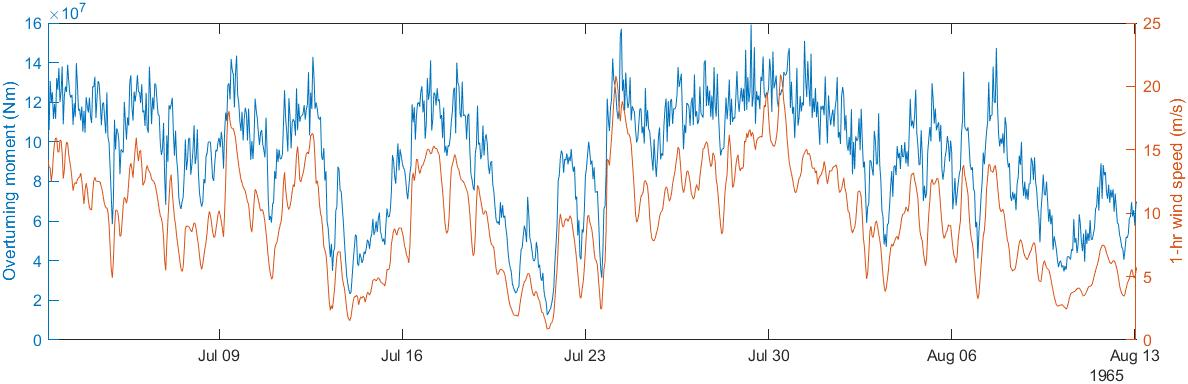
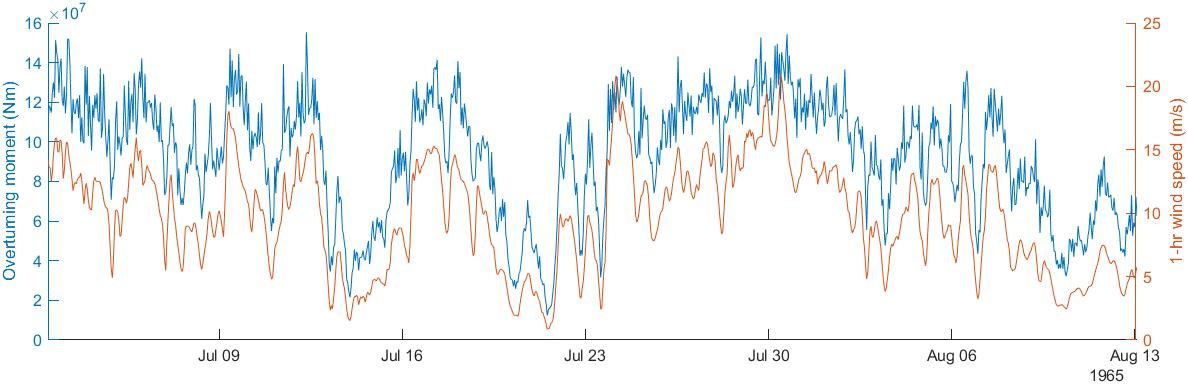
Box off in gfx.

diff --git a/MatlabAndPythonScripts/ResponseEmulator/estimateLongTermResponse.m b/MatlabAndPythonScripts/ResponseEmulator/estimateLongTermResponse.m
@@ -21,6 +21,7 @@ yyaxis right
 plot(t(1:n), v1hr(1:n));
 ylabel('1-hr wind speed (m/s)')
 xlim([t(1) t(n)]);
+box off
 exportgraphics(gcf, 'gfx/ShortResponseTimeLine.jpg') 
 exportgraphics(gcf, 'gfx/ShortResponseTimeLine.pdf') 
 
